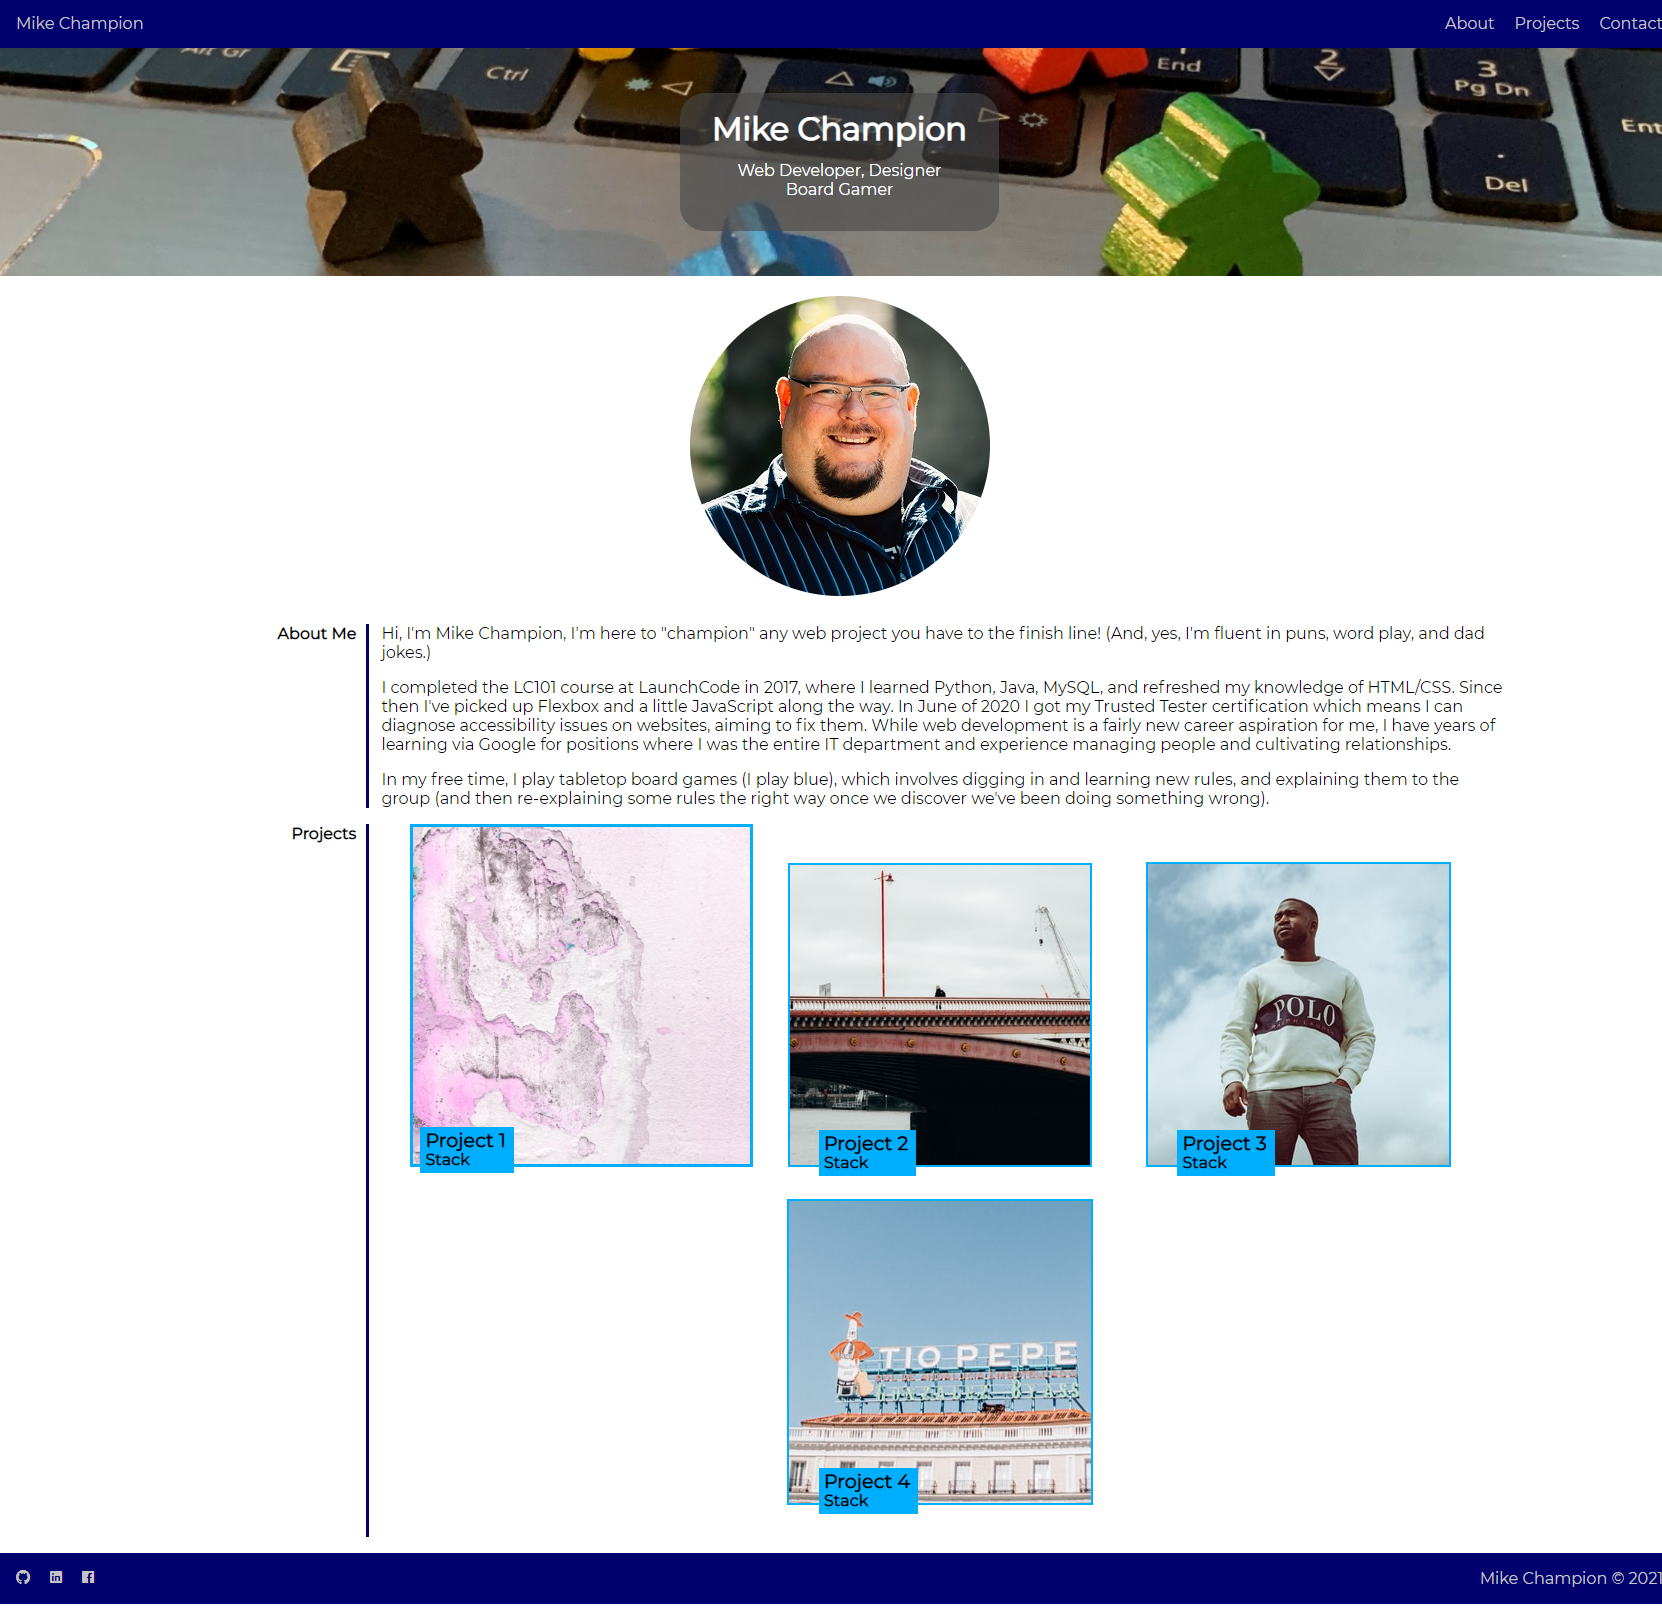
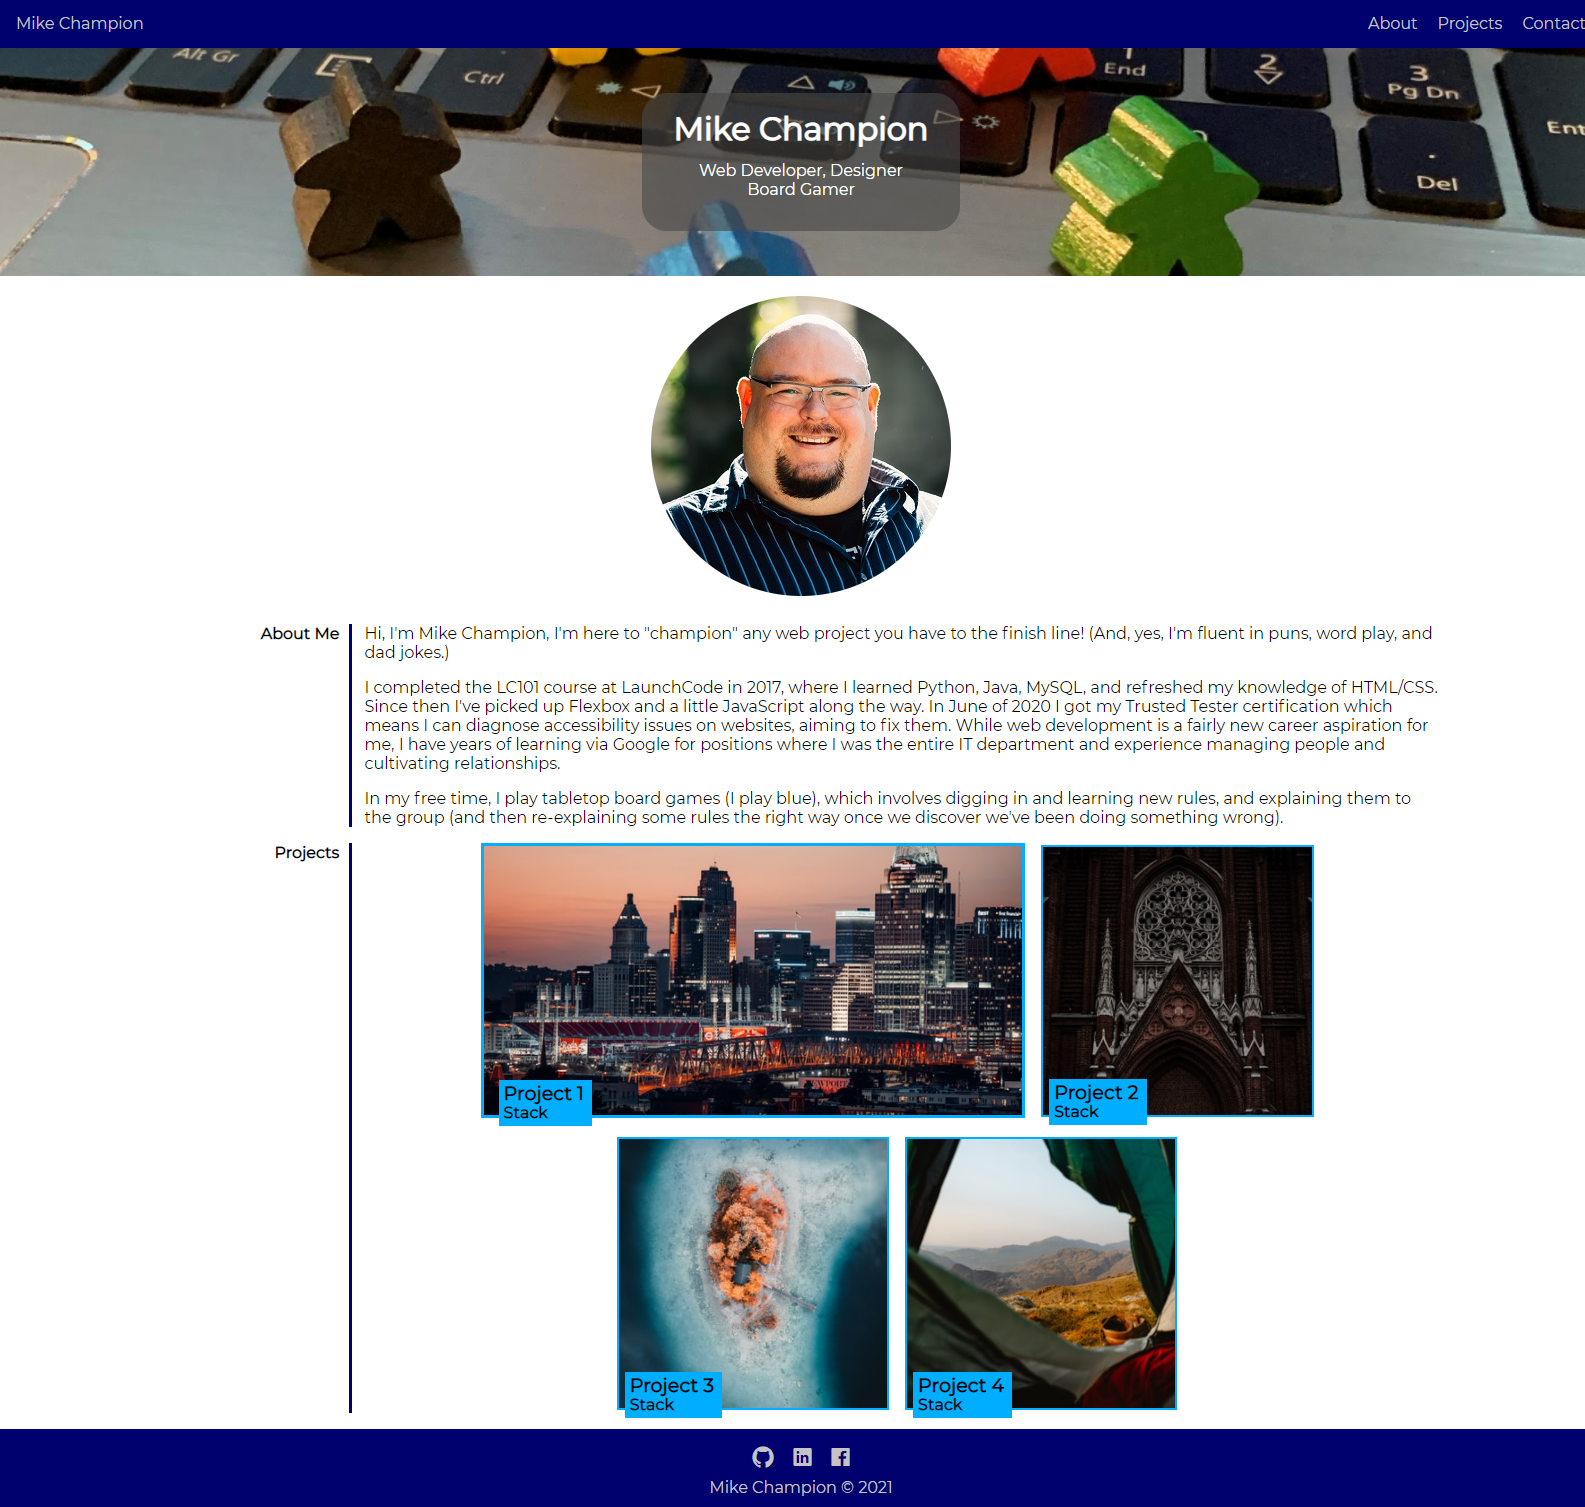
Final revisions to tablet layout

diff --git a/assets/css/style.css b/assets/css/style.css
@@ -125,35 +125,23 @@ p {
 /* BEGIN PROJECTS STYLING */
 .projects {
     display: flex;
-    flex-flow: column;
+    flex-flow: column nowrap;
+    justify-content: center;
     align-items: center;
     gap: 1rem;
 }
 
-.first-tile {
-    width: 90%;
-    height: auto;
-    position: relative;
-}
-
-.first-tile img {
-    width: 100%;
-    border: 3px solid rgb(0, 174, 255);
-}
-
-.first-project-tag {
-    background: rgb(0, 174, 255);
-    color: black;
-    padding: 0.25rem 0.5rem 0.25rem 0;
-    position: absolute;
-    bottom: -3%;
-    left: 5px;
-}
-
 .project-tile {
-    width: 65%;
+    display: flex;
+    justify-content: center;
+    align-items: center;
+    width: 70%;
     height: auto;
     position: relative;
+}
+
+.project-tile a {
+    display: inline-block;
 }
 
 .project-tile img {
@@ -166,8 +154,8 @@ p {
     color: black;
     padding: 0.25rem 0.5rem 0.25rem 0;
     position: absolute;
-    bottom: -5%;
-    left: 5px;
+    bottom: -5px;
+    left: 8px;
 }
 
 .project-container p {
@@ -177,6 +165,29 @@ p {
 
 .proj-title {
     font-size: 1.2rem;
+}
+.first-tile {
+    padding: 0 10px;
+    position: relative;
+}
+
+.first-tile a {
+    display: inline-block;
+}
+
+.first-tile img {
+    width: 100%;
+    height: auto;
+    border: 3px solid rgb(0, 174, 255);
+}
+
+.first-project-tag {
+    background: rgb(0, 174, 255);
+    color: black;
+    padding: 0.25rem 0.5rem 0.25rem 0;
+    position: absolute;
+    bottom: -5px;
+    left: 18px;
 }
 /* END PROJECTS STYLING */
 /* END MAIN/INDEX STYLING*/
@@ -247,53 +258,30 @@ footer p {
 
     /* BEGIN PROJECTS STYLING */
     .projects {
+        display: flex;
         flex-flow: row wrap;
-        justify-content: center;
-        align-items: baseline;
-        margin-bottom: 0.75rem;
-    }
-
-    .first-tile {
-        width: 100%;
-    }
-
-    .first-project-tag {
-        bottom: -2%;
-        left: 10px;
+        align-items: space-evenly;
+        justify-content: space-evenly;
+        gap: 1rem;
     }
 
     .project-tile {
-        width: 10%;
+        width: 25%;
     }
-    .project-tag {
-        background: rgb(0, 174, 255);
-        color: black;
-        padding: 0.25rem 0.5rem 0.25rem 0;
-        position: absolute;
-        bottom: -3%;
-        left: 50px;
-    }
-    /* END MAIN/INDEX STYLING*/
 
-    /* BEGIN FOOTER STYLING*/
-    footer {
-        display: flex;
-        flex-flow: column nowrap;
-        justify-content: space-around;
+    .first-tile {
+        width: 90%;
+        justify-content: center;
         align-items: center;
     }
-
-    footer li {
-        font-size: 1.5rem;
-    }
-    /* END FOOTER STYLING*/
+    /* END PROJECTS STYLING*/
 }
 /* END TABLET STYLING */
 
 /*--------------------------------------------------*/
 
 /* BEING DESKTOP STYLING */
-@media screen and (min-width: 480px) {
+@media screen and (min-width: 1024px) {
     /* BEGIN HEADER/NAV STYLING*/
     .n-f-padding {
         padding: 1rem;
@@ -332,34 +320,41 @@ footer p {
     /* END ABOUT STYLING */
 
     /* BEGIN PROJECTS STYLING */
-    .projects {
+    /*.projects {
+        display: flex;
         flex-flow: row wrap;
-        justify-content: center;
-        align-items: baseline;
-        margin-bottom: 1rem;
-    }
-
-    .first-tile {
-        width: 30%;
-    }
-
-    .first-project-tag {
-        bottom: -2%;
-        left: 10px;
+        align-items: space-evenly;
+        justify-content: space-evenly;
+        gap: 1rem;
     }
 
     .project-tile {
-        width: 30%;
-        margin-bottom: 1rem;
+        width: 25%;
     }
-    .project-tag {
-        background: rgb(0, 174, 255);
-        color: black;
-        padding: 0.25rem 0.5rem 0.25rem 0;
-        position: absolute;
-        bottom: -3%;
-        left: 50px;
+
+    .first-tile {
+        width: 90%;
+        justify-content: center;
+        align-items: center;
+    }*/
+
+    .projects {
+        display: flex;
+        flex-flow: row wrap;
+        align-items: center;
+        justify-content: center;
     }
+
+    .first-tile {
+        width: 50%;
+        padding: 0;
+    }
+
+    .project-tile {
+        width: 25%;
+    }
+
+    /* END PROJECTS STYLING*/
     /* END MAIN/INDEX STYLING*/
 
     /* BEGIN FOOTER STYLING*/

diff --git a/index.html b/index.html
@@ -93,49 +93,49 @@
             <section id="projects" class="project-container flex row">
                 <aside class="right-shadow"><h2>Projects</h2></aside>
                 <div class="projects">
-                    <div class="first-tile flex column center">
-                        <a href="./project.html" class="flex center"
+                    <div class="first-tile">
+                        <a href="./project.html"
                             ><img
-                                src="https://source.unsplash.com/random/450x450"
+                                src="https://source.unsplash.com/random/600x300"
                                 alt=""
                         /></a>
-                        <div class="first-project-tag flex column">
+                        <div class="first-project-tag">
                             <p class="proj-title">Project 1</p>
                             <p>Stack</p>
                         </div>
                     </div>
 
-                    <div class="project-tile flex column center">
-                        <a href="./project.html" class="flex center"
+                    <div class="project-tile">
+                        <a href="./project.html" class=""
                             ><img
                                 src="https://source.unsplash.com/random/300x300"
                                 alt=""
                         /></a>
-                        <div class="project-tag flex column">
+                        <div class="project-tag">
                             <p class="proj-title">Project 2</p>
                             <p>Stack</p>
                         </div>
                     </div>
 
-                    <div class="project-tile flex column center">
-                        <a href="./project.html" class="flex center"
+                    <div class="project-tile">
+                        <a href="./project.html" class=""
                             ><img
                                 src="https://source.unsplash.com/random/301x301"
                                 alt=""
                         /></a>
-                        <div class="project-tag flex row column">
+                        <div class="project-tag">
                             <p class="proj-title">Project 3</p>
                             <p>Stack</p>
                         </div>
                     </div>
 
-                    <div class="project-tile flex column center">
-                        <a href="./project.html" class="flex center"
+                    <div class="project-tile">
+                        <a href="./project.html" class=""
                             ><img
                                 src="https://source.unsplash.com/random/302x302"
                                 alt=""
                         /></a>
-                        <div class="project-tag flex column">
+                        <div class="project-tag">
                             <p class="proj-title">Project 4</p>
                             <p>Stack</p>
                         </div>
